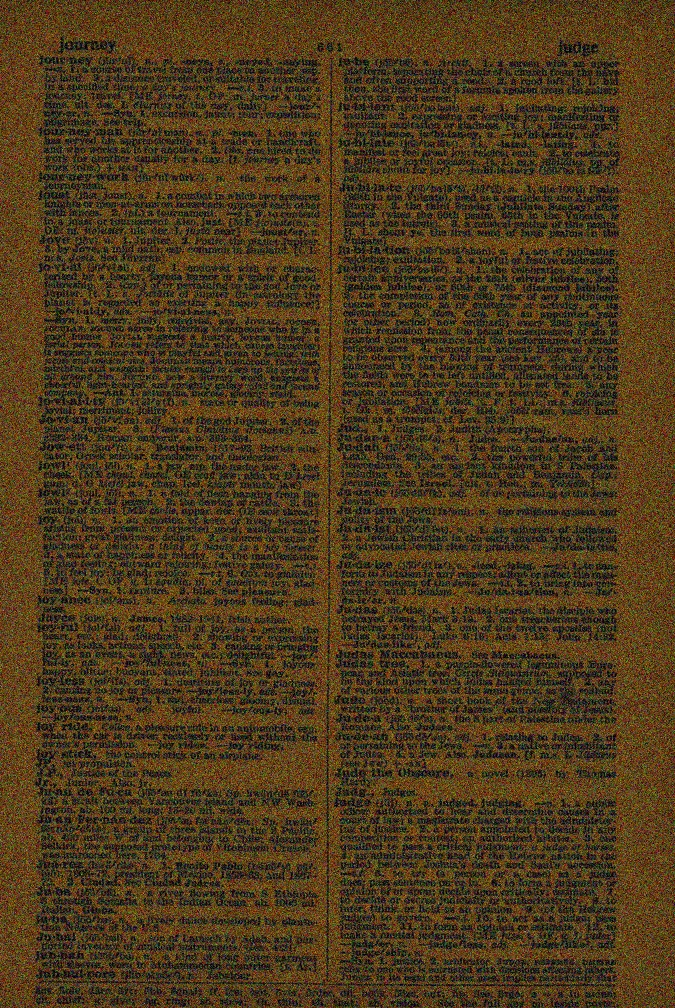
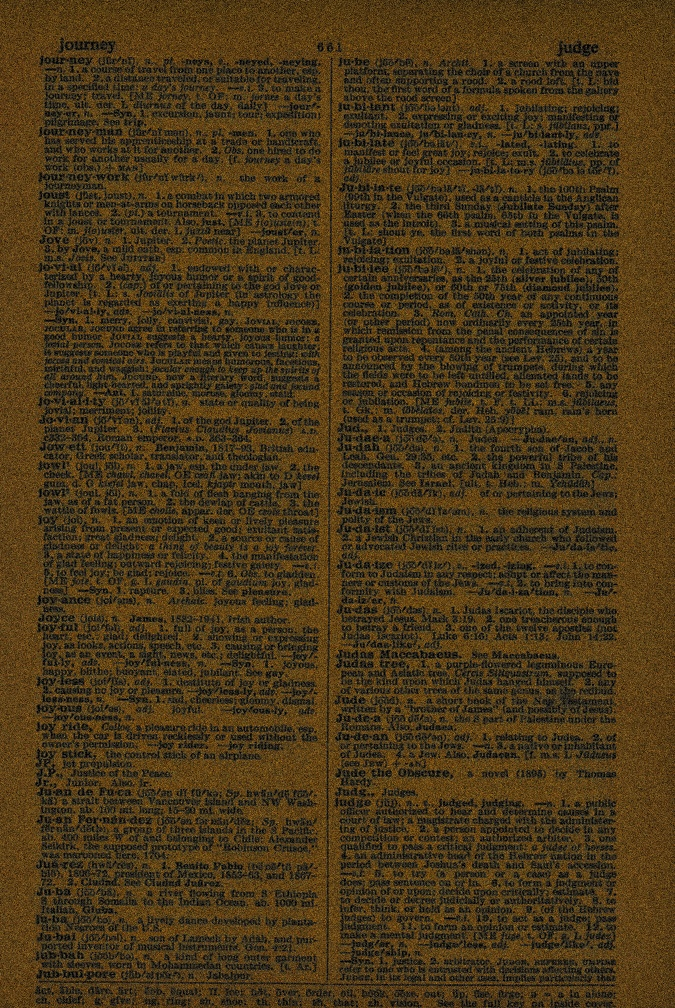
低照度对比

diff --git a/create_lowlight_dataset.py b/create_lowlight_dataset.py
@@ -1,73 +1,97 @@
 import cv2
 import numpy as np
 import os
+import random
 
-# 配置参数
-input_dir = '/mmocr/demo'
-output_dir = '/mmocr/lowlight_dataset'
-os.makedirs(output_dir, exist_ok=True)
+# ==================== 配置参数 ====================
+INPUT_DIR = 'C:/Users/dingy/PycharmProjects/bishe/mmocr/demo'
+OUTPUT_DIR = 'C:/Users/dingy/PycharmProjects/bishe/mmocr/lowlight_dataset'
 
-# 低照度参数
-BRIGHTNESS_FACTOR = 0.3  # 亮度衰减系数 (0.3 表示只有 30% 亮度)
-NOISE_LEVEL = 30  # 高斯噪声强度
+# 控制随机范围，避免“一刀切”
+MIN_BRIGHTNESS = 0.25  # 最暗为原图的 25%
+MAX_BRIGHTNESS = 0.55  # 最亮为原图的 55%
+MIN_NOISE = 10  # 最小噪声标准差
+MAX_NOISE = 25  # 最大噪声标准差
+# =================================================
 
-
-def add_gaussian_noise(image, mean=0, sigma=NOISE_LEVEL):
-    """添加高斯噪声"""
-    row, col, ch = image.shape
-    gauss = np.random.normal(mean, sigma, (row, col, ch))
-    noisy = image + gauss
-    return np.clip(noisy, 0, 255).astype(np.uint8)
+os.makedirs(OUTPUT_DIR, exist_ok=True)
 
 
 def apply_low_light_effect(image):
-    """应用低照度效果：降低亮度 + 添加噪声"""
-    # 1. 降低亮度
+    """
+    自适应低照度退化算法：
+    1. 在 HLS 空间对 L 通道进行随机比例衰减。
+    2. 仅在 L 通道上叠加单通道高斯噪声，模拟真实的低照度亮度噪点。
+    """
+    # 随机生成当前图片的退化参数
+    brightness_factor = random.uniform(MIN_BRIGHTNESS, MAX_BRIGHTNESS)
+    noise_sigma = random.uniform(MIN_NOISE, MAX_NOISE)
+
+    # 1. 转换到 HLS 颜色空间
     hls = cv2.cvtColor(image, cv2.COLOR_BGR2HLS)
     h, l, s = cv2.split(hls)
-    l = cv2.multiply(l, BRIGHTNESS_FACTOR)  # 降低亮度
+
+    # 2. 降低亮度通道 (L)
+    l = cv2.multiply(l, brightness_factor)
     l = np.clip(l, 0, 255)
-    l = cv2.merge([h, l, s])
-    low_light_img = cv2.cvtColor(l, cv2.COLOR_HLS2BGR)
 
-    # 2. 添加噪声
-    noisy_img = add_gaussian_noise(low_light_img)
+    # 3. 构造单通道高斯噪声并叠加到亮度通道 (避免产生不真实的彩色雪花点)
+    row, col = l.shape
+    gauss = np.random.normal(0, noise_sigma, (row, col))
+    noisy_l = l + gauss
+    noisy_l = np.clip(noisy_l, 0, 255).astype(np.uint8)
 
-    return noisy_img
+    # 4. 合并通道并转回 BGR
+    low_light_hls = cv2.merge([h, noisy_l, s])
+    low_light_rgb = cv2.cvtColor(low_light_hls, cv2.COLOR_HLS2BGR)
+
+    return low_light_rgb, brightness_factor, noise_sigma
 
 
-print("=" * 60)
-print("开始生成低照度测试数据...")
-print("=" * 60)
+def main():
+    print("=" * 60)
+    print("🚀  开始生成低照度测试数据集 (改进版) ...")
+    print(f"输入路径: {INPUT_DIR}")
+    print(f"输出路径: {OUTPUT_DIR}")
+    print("=" * 60)
 
-# 获取所有图片文件
-image_files = [f for f in os.listdir(input_dir) if f.lower().endswith(('.jpg', '.png', '.jpeg'))]
+    # 检查输入目录是否存在
+    if not os.path.exists(INPUT_DIR):
+        print(f"❌ 错误：找不到输入目录 {INPUT_DIR}，请检查路径！")
+        return
 
-if not image_files:
-    print("错误：未在 demo 目录找到图片！")
-else:
+    # 支持常见的图片格式
+    valid_extensions = ('.jpg', '.png', '.jpeg', '.bmp', '.tiff')
+    image_files = [f for f in os.listdir(INPUT_DIR) if f.lower().endswith(valid_extensions)]
+
+    if not image_files:
+        print("⚠ 提示：未在指定目录找到任何图片文件！")
+        return
+
+    success_count = 0
+
     for img_name in image_files:
-        img_path = os.path.join(input_dir, img_name)
+        img_path = os.path.join(INPUT_DIR, img_name)
         img = cv2.imread(img_path)
 
         if img is None:
-            print(f"⚠ 跳过无法读取的文件: {img_name}")
+            print(f"❌ 跳过损坏或无法读取的文件: {img_name}")
             continue
 
-        # 处理图片
-        low_light_img = apply_low_light_effect(img)
+        # 核心算法处理
+        processed_img, b_factor, n_sigma = apply_low_light_effect(img)
 
-        # 保存
-        save_path = os.path.join(output_dir, img_name)
-        cv2.imwrite(save_path, low_light_img)
+        # 保存图片
+        save_path = os.path.join(OUTPUT_DIR, img_name)
+        cv2.imwrite(save_path, processed_img)
 
-        print(f"✓ 已转换并保存: {img_name} -> {save_path}")
+        success_count += 1
+        print(f"[{success_count:02d}] 转换成功: {img_name} -> (亮度: {b_factor:.2f}, 噪声: {n_sigma:.1f})")
 
-print("\n" + "=" * 60)
-print("✓ 低照度数据集生成完毕！")
-print(f"📁 保存位置: {output_dir}")
-print("=" * 60)
-print("\n📌 接下来的操作：")
-print("  1. 运行上述脚本生成数据")
-print("  2. 修改 p1.py 中的 test_images 列表，指向新生成的 lowlight_dataset")
-print("  3. 运行 p1.py 对比正常图与低照度图的结果差异")
+    print("=" * 60)
+    print(f"🎉 处理完成！成功转换并保存了 {success_count} 张低照度图像。")
+    print("=" * 60)
+
+
+if __name__ == '__main__':
+    main()
